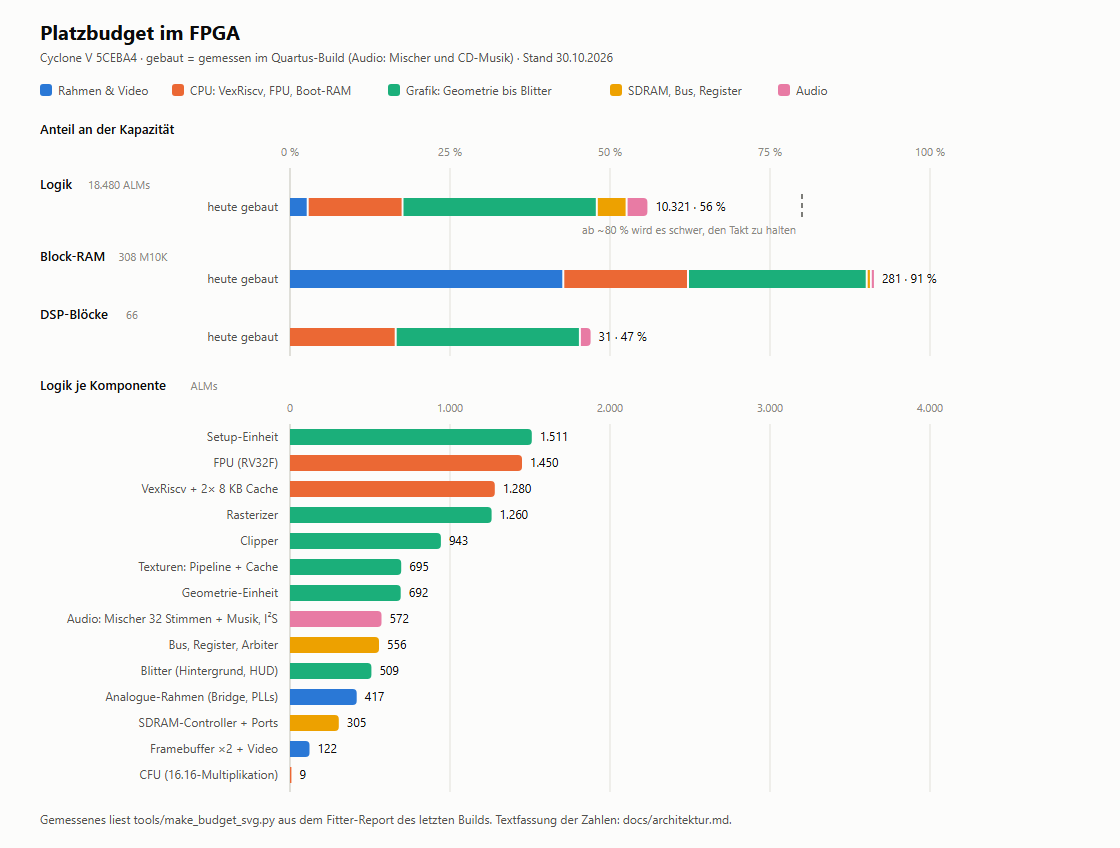
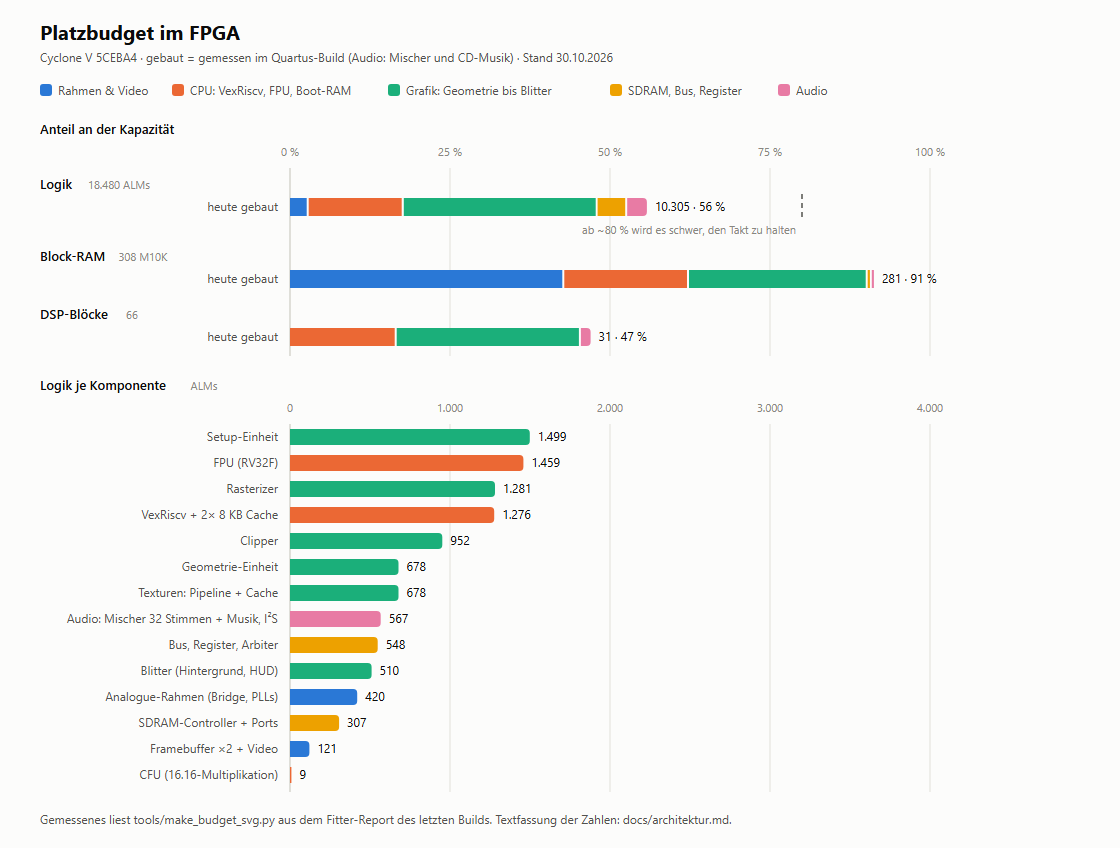
Routine 160: its texture frame from its own phase, not the brake lights'
The filler takes a reflection's frame from [0x84288] (the object's record
+0x3c, 0 for every car), the others' from [0x84284], the paint job's
phase with the brake lights and the wheels' blur in it. We took the paint
job's for all, so a car's rear window (the Tiger's) changed its picture
when braking. The geometry unit and its model draw 160 with frame 0.

diff --git a/firmware/geom.c b/firmware/geom.c
@@ -63,7 +63,10 @@ uint32_t gu_draw(volatile uint8_t *fb, const struct rs_clip *clip, const struct 
                n taken as its low half when it is above 0 */
             const uint8_t *trec = mlb + rd32(mat + 4);
             int32_t n = rd32(trec);
-            uint32_t frame = n > 0 ? ((uint32_t)n & 0xFFFF) * (p->phase & 0x3FFF) >> 14 : 0;
+            /* routine 160 (a car's windows) takes its frame from the object's own reflection
+               phase ([0x84288], record +0x3c), 0 for every car, not from the paint job's phase
+               with its brake lights ([0x84284]) */
+            uint32_t frame = n > 0 && routine != 160 ? ((uint32_t)n & 0xFFFF) * (p->phase & 0x3FFF) >> 14 : 0;
             tex.data = mlb + rd32(trec + 8 + 4 * frame);
             tex.width = tw;
             tex.height = th;

diff --git a/docs/architektur.md b/docs/architektur.md
@@ -225,22 +225,22 @@ diese Tabelle.
 
 | Komponente | ALMs | M10K | DSP |
 |---|---|---|---|
-| Analogue-Rahmen (Bridge, PLLs) | 417 | 2 | – |
-| Framebuffer ×2 + Video | 122 | 130 | – |
-| VexRiscv + 2× 8 KB Cache | 1.280 | 19 | 4 |
-| FPU (RV32F) | 1.450 | 5 | 4 |
+| Analogue-Rahmen (Bridge, PLLs) | 420 | 2 | – |
+| Framebuffer ×2 + Video | 121 | 130 | – |
+| VexRiscv + 2× 8 KB Cache | 1.276 | 19 | 4 |
+| FPU (RV32F) | 1.459 | 5 | 4 |
 | CFU (16.16-Multiplikation) | 9 | – | 3 |
 | Boot-RAM 32 KB + Protokoll | – | 36 | – |
-| Geometrie-Einheit | 692 | 22 | 4 |
-| Clipper | 943 | 6 | 2 |
-| Setup-Einheit | 1.511 | 7 | 4 |
-| Rasterizer | 1.260 | 2 | 5 |
-| Texturen: Pipeline + Cache | 695 | 47 | 4 |
-| Blitter (Hintergrund, HUD) | 509 | 2 | – |
-| SDRAM-Controller + Ports | 305 | 2 | – |
-| Audio: Mischer 32 Stimmen + Musik, I²S | 572 | 1 | 1 |
-| Bus, Register, Arbiter | 556 | – | – |
-| **gebaut** | **10.321 (56 %)** | **281 (91 %)** | **31 (47 %)** |
+| Geometrie-Einheit | 678 | 22 | 4 |
+| Clipper | 952 | 6 | 2 |
+| Setup-Einheit | 1.499 | 7 | 4 |
+| Rasterizer | 1.281 | 2 | 5 |
+| Texturen: Pipeline + Cache | 678 | 47 | 4 |
+| Blitter (Hintergrund, HUD) | 510 | 2 | – |
+| SDRAM-Controller + Ports | 307 | 2 | – |
+| Audio: Mischer 32 Stimmen + Musik, I²S | 567 | 1 | 1 |
+| Bus, Register, Arbiter | 548 | – | – |
+| **gebaut** | **10.305 (56 %)** | **281 (91 %)** | **31 (47 %)** |
 
 Knapp wird die Logik: ab etwa 80 % Belegung wird es auf dem Cyclone V schwer, die
 Taktfrequenz zu halten. Das zeigt sich beim Bauen (Timing-Analyse, `tools/build.sh` meldet es
